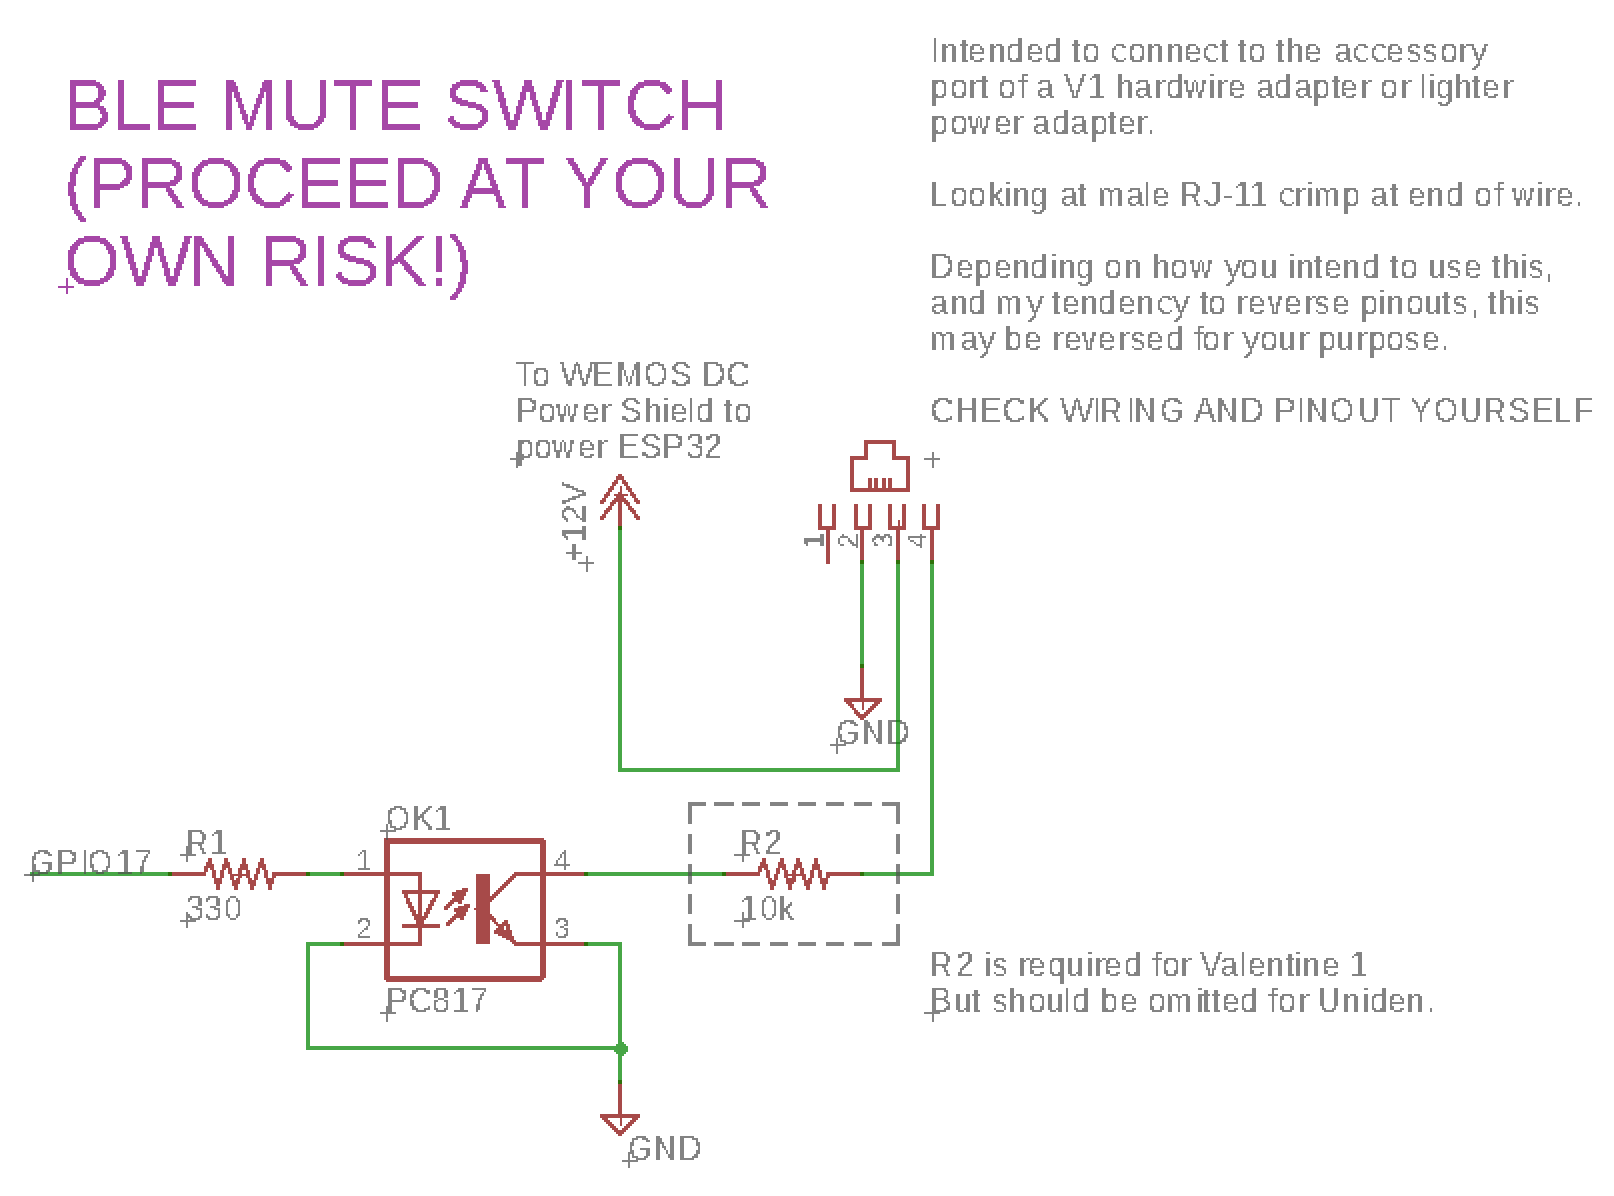
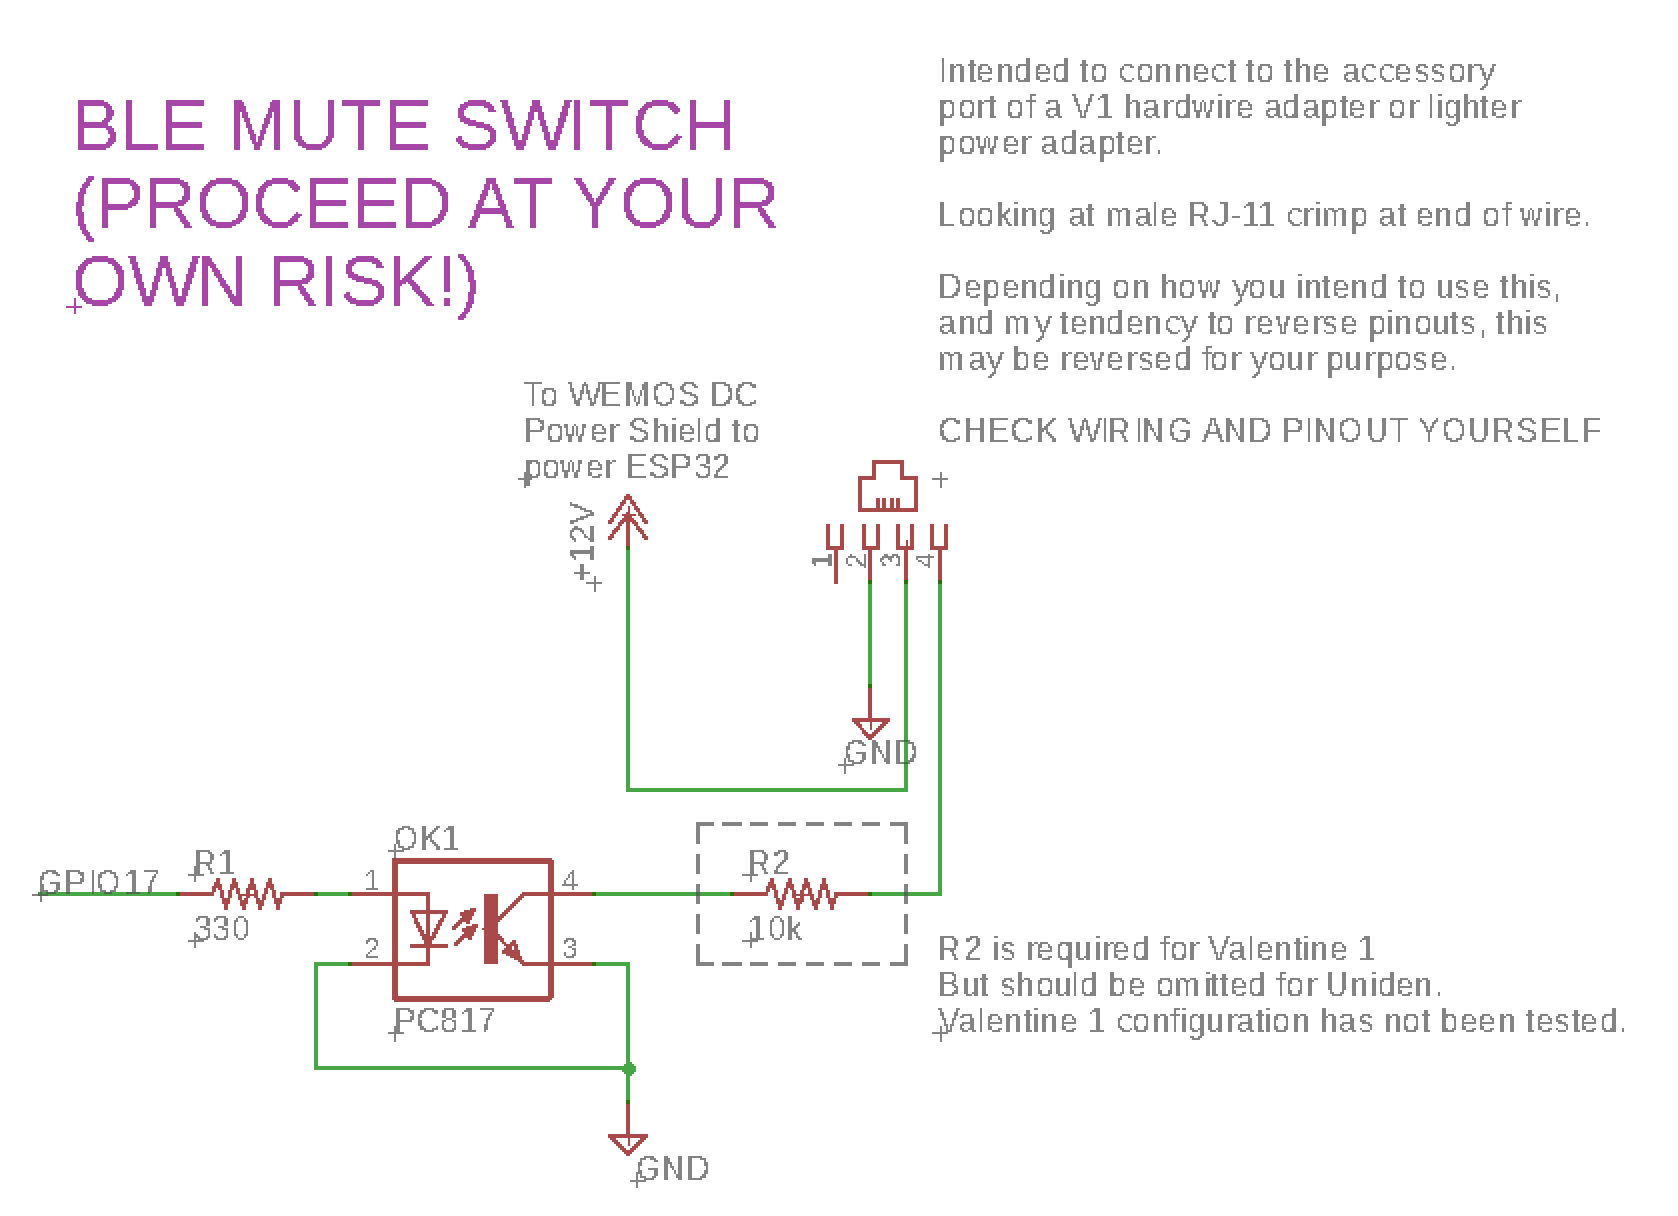
Make it clear that V1 is untested.

diff --git a/README.md b/README.md
@@ -39,7 +39,8 @@ can't really be used simultaneously due to memory constraints.
 regulator to get down to the 3.3v operating voltage.
 - A protoshiled with a PC817 opto isolator and resistor.  You might need a second resisor if you intend
 to use this with a Valentine One.  You could probably easily do this with a transistor, relay or some other
-switching method.
+switching method.  (Note: I have not tested this extensively with either the R7 or the V1, so proceed at
+your own risk!)
 
 ![Assembly](docs/assembly.jpg)
 
